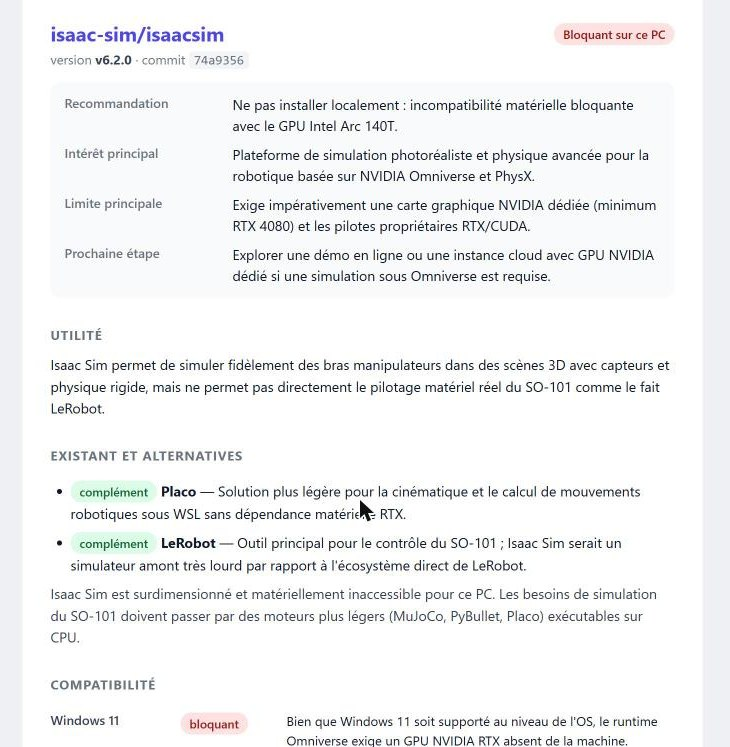
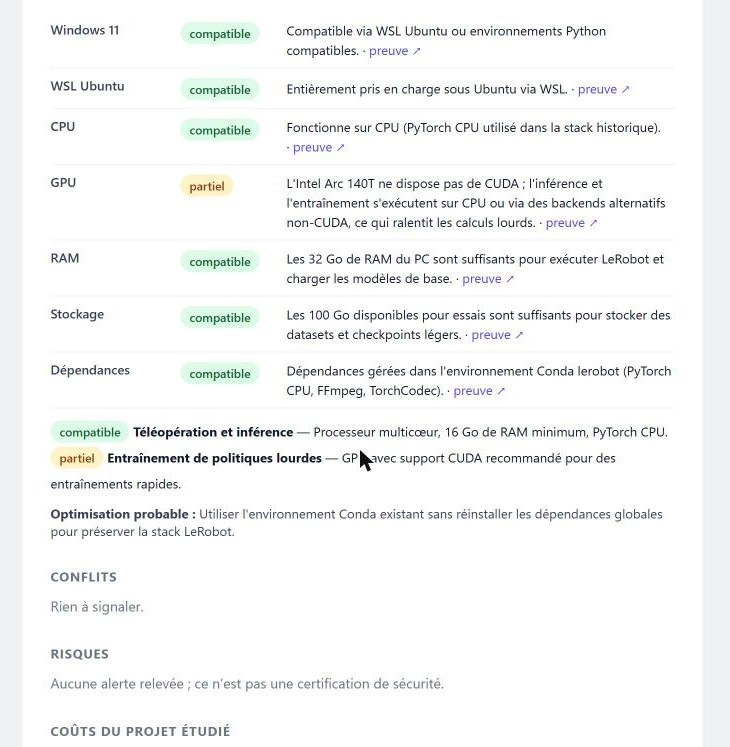
docs(n8n): add the real end-to-end test with e-mail and Notion screenshots

diff --git a/n8n_workflow/README.md b/n8n_workflow/README.md
@@ -18,7 +18,13 @@
 |---|---|
 | ![E-mail : recommandation](docs/img/email-top.jpg) | ![E-mail : carte d'un dépôt](docs/img/email-card.jpg) |
 
-*Exemple de rapport de la v2 : le rendu est le même, sans la puce du commit (plus utilisée). Il sera remplacé par un rapport de cette version après le test réel.*
+*Rapport réel du test du 23 octobre 2026 (`huggingface/lerobot`, version v0.6.1).*
+
+La page créée dans la base « Analyses » de Notion :
+
+![Page Notion : propriétés](docs/img/notion-page-properties.png)
+
+![Page Notion : rapport](docs/img/notion-page-report.png)
 
 Le workflow dans n8n, vu d'ensemble :
 
@@ -66,7 +72,7 @@ flowchart LR
 |---|---|
 | Sticky notes | 13 : fiche de specs (bleu), à faire (jaune), aide humaine (violet), idées (vert), journal des revues (gris), un sticky gris par bloc. Code couleur du cours imposé par [`n8n-standards.json`](n8n/config/n8n-standards.json) |
 | Credentials renommés | `Google Gemini - Free Tier`, `Gmail - Mathieu`, `Notion - Eugenia Workspace`, `Basic Auth - Diagnostic Form`, `GitHub - Public Repositories Read` |
-| Workflow propre | noms « Outil - Action » en Title Case anglais, variables en camelCase, un seul `CONFIGURATION`, 7 blocs, notes sur les nodes importants, délai maximal d'exécution |
+| Workflow propre | noms « Outil - Action » en Title Case anglais, variables en camelCase, un seul `CONFIGURATION`, 7 blocs, notes sur les nodes importants |
 | Nodes natifs d'abord | GitHub, Notion, Gmail, Data Table, Loop Over Items, Switch, XML, Convert to File, Extract from File, chaîne LLM Gemini avec parseur et modèle de secours. **Aucun HTTP Request.** Seuls 2 Code nodes, justifiés dans leur note : rendu du rapport (Markdown + HTML depuis le même JSON) et contrôle du diagnostic |
 | Modèles IA « latest » | `gemini-flash-latest` et `gemini-flash-lite-latest`, modifiables dans `CONFIGURATION` |
 | Moins de workflows | 1 workflow, 48 nodes (la v2 en comptait 7 et environ 150) |
@@ -161,14 +167,27 @@ Pour produire une version prête à déployer sur ton instance (credentials et i
 
 ## Tests effectués (23 octobre 2026, instance n8n cloud 2.44.5, workflow non publié)
 
-Le credential GitHub n'existait pas encore : les 4 nodes GitHub ont été **remplacés par des données de test** dans ces essais, les envois Gmail et la création de la page Notion étaient **simulés**. Restent réels : les lectures Notion (profil et inventaire), les appels Gemini et les écritures dans les Data Tables.
+### Test réel de bout en bout : `huggingface/lerobot`
+
+GitHub, Notion, Gmail et Gemini réels : 1 e-mail et 1 page Notion créés.
+
+| Étape | Résultat |
+|---|---|
+| Preuves GitHub (4 nodes natifs) | dernière release stable v0.6.1 parmi 11 releases, licence Apache-2.0, README lu à ce tag (réduit à l'introduction et à « Quick Start »), 40 issues lues dont aucune sur l'installation |
+| Réutilisation | aucune analyse existante pour cette clé : l'analyse continue |
+| Contexte Notion | 5 sections de profil et 10 outils lus ; LeRobot relié au dépôt |
+| Diagnostic IA | le modèle principal a répondu « service indisponible », le modèle de secours a pris le relais ; JSON valide du premier coup, contrôles passés, statut « terminé » ; conclusion : garder LeRobot 0.6.2 et ne pas rétrograder, GPU Intel Arc « partiel » (pas de CUDA) |
+| Livraison | 1 page dans « Analyses » (statut « terminé », propriétés remplies), 1 e-mail HTML avec le JSON joint (10,2 ko), 1 ligne `done` dans `analysis_history` |
+
+### Essais complémentaires
+
+Pour ceux-ci, les 4 nodes GitHub étaient remplacés par des données de test et les envois Gmail et la création Notion par des simulations ; les lectures Notion, les appels Gemini et les écritures dans les Data Tables étaient réels.
 
 | Test | Résultat |
 |---|---|
 | `n8ncli validate` | `[VALID]` |
 | `n8ncli lint --fail-on-warnings` | `[LINT-PASS]`, 0 avertissement |
 | Validateur du skill n8n-pro-max | 0 erreur, 0 avertissement |
-| Parcours complet, 1 dépôt | diagnostic « terminé » du premier coup (JSON valide, contrôles passés, contexte Notion réel : 5 sections de profil, 10 outils) ; le modèle principal a répondu « service indisponible », le modèle de secours a pris le relais ; ligne ajoutée dans `analysis_history` |
 | Même demande relancée | rapport retrouvé par sa clé, e-mail « rapport existant », aucun appel IA ni lecture Notion |
 | Comparaison de 2 dépôts | 2 passages de boucle, 2 rapports et une comparaison |
 | « Refaire l'analyse » = Oui | analyse refaite, la ligne existante est **mise à jour** (pas de doublon) |
@@ -176,13 +195,14 @@ Le credential GitHub n'existait pas encore : les 4 nodes GitHub ont été **remp
 | Gestionnaire d'erreurs | incident journalisé dans `error_incidents`, alerte construite |
 | `Manual - Setup Data Tables` | les 2 tables sont créées (ou reconnues si elles existent) |
 
-**Pas encore testé** : les nodes GitHub natifs avec un vrai credential, une vraie page Notion et un vrai e-mail avec cette version, le cas « aucune release stable » (arrêt avec la raison), l'Error Trigger en production.
+**Pas encore testé** : le cas « aucune release stable » (arrêt avec la raison), l'Error Trigger en production, le formulaire une fois le workflow publié, et le dernier réglage du prompt (consigne de ne jamais écrire d'identifiant dans les textes, ajoutée après le test réel).
 
 ## Limites connues
 
 - Seul le README est lu, avec les notes de release et les issues sur l'installation : ce que le README ne dit pas reste « inconnu » dans le rapport.
 - Pas de recherche Web : les alternatives externes sont dans les inconnues.
 - Un dépôt sans release stable (brouillons et pré-releases ignorés) arrête l'exécution avec la raison.
+- Gemini Flash peut mettre plus de 3 minutes sur un diagnostic long (le modèle de secours reprend la main en cas d'erreur). Le workflow ne fixe aucun délai maximal : certaines offres n8n plafonnent la durée d'une exécution (180 s sur l'essai gratuit utilisé ici) et coupent alors un appel lent.
 - Le profil est lu en Markdown (Notion peut tronquer une page très longue) ; l'inventaire est donné en entier à l'IA, il doit rester court (une cinquantaine d'outils).
 - La réutilisation ignore les changements du profil Notion : utiliser « Refaire l'analyse ».
 - `Error workflow` : n8n n'autorise ce réglage qu'après la première publication.

diff --git a/n8n_workflow/docs/PROMPTS.md b/n8n_workflow/docs/PROMPTS.md
@@ -25,7 +25,7 @@ Un seul prompt, utilisé par `Basic LLM Chain - Write Diagnostic`. Il est écrit
 | Réponse qui n'est pas du JSON valide | `Output Parser - Diagnostic Schema` (schéma manuel) + réparation automatique par un second modèle |
 | Modèle indisponible ou surchargé | modèle de secours `gemini-flash-lite-latest` (option native de la chaîne), 2 essais |
 | Le modèle contredit les preuves GitHub | `Code - Validate and Finalize Diagnostic` recopie dépôt, version et URL **depuis GitHub**, jamais depuis l'IA, et refuse un rapport sans note, sans source ou qui cite un contexte inconnu |
-| Appel bloqué | délai maximal d'exécution du workflow (15 minutes), puis alerte du gestionnaire d'erreurs |
+| Appel lent ou en échec | modèle de secours en cas d'erreur ; aucun délai fixé dans le workflow, car certaines offres n8n plafonnent la durée d'exécution (180 s sur l'essai gratuit) et coupent alors un appel Gemini lent |
 
 ## Modifier le prompt
 
